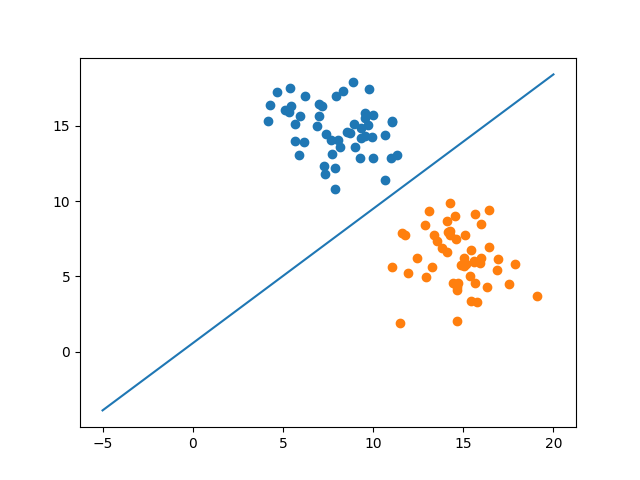
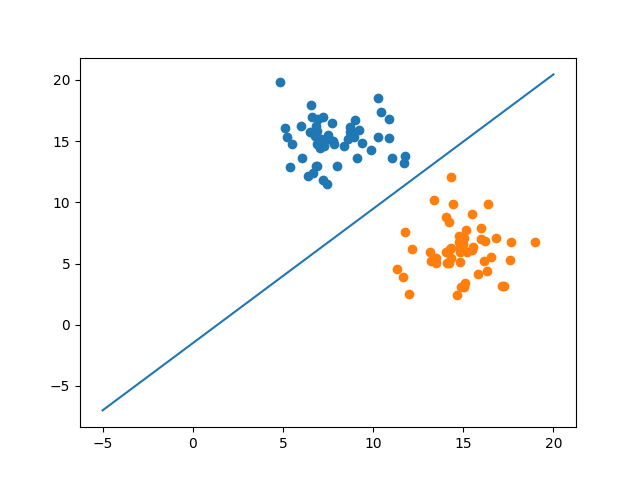
working

diff --git a/SVM.py b/SVM.py
@@ -39,7 +39,6 @@ class SVM:
                 V = np.insert(V, 0, [1])
                 # 1 x1 x2
                 #print(V)
-                print(y[idx].shape)
                 if y[idx] * (np.dot(self.w,np.transpose(V))) < 1:
                     #                     y[1] * V[(1 + p) x 1]
                     hinge_loss_gradient = y[idx] * V

diff --git a/fake_data_testing.py b/fake_data_testing.py
@@ -20,7 +20,7 @@ X = np.vstack((Xa, Xb))
 negative_ones = np.full((1, n_pts), -1)
 #print(y)
 positive_ones = np.full((1, n_pts), 1)
-Y = np.matrix(np.append(negative_ones, positive_ones))
+Y = np.append(negative_ones, positive_ones)
  
 
 #Class 1 X and Y values
